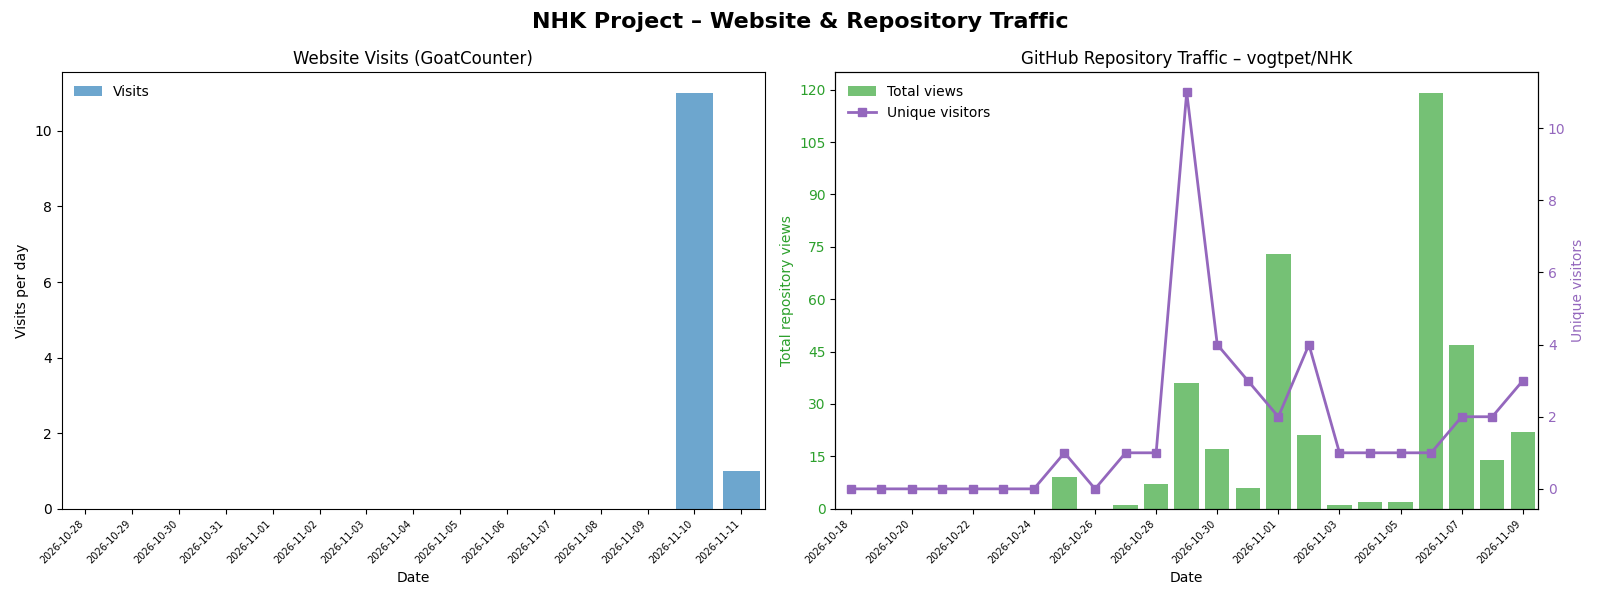
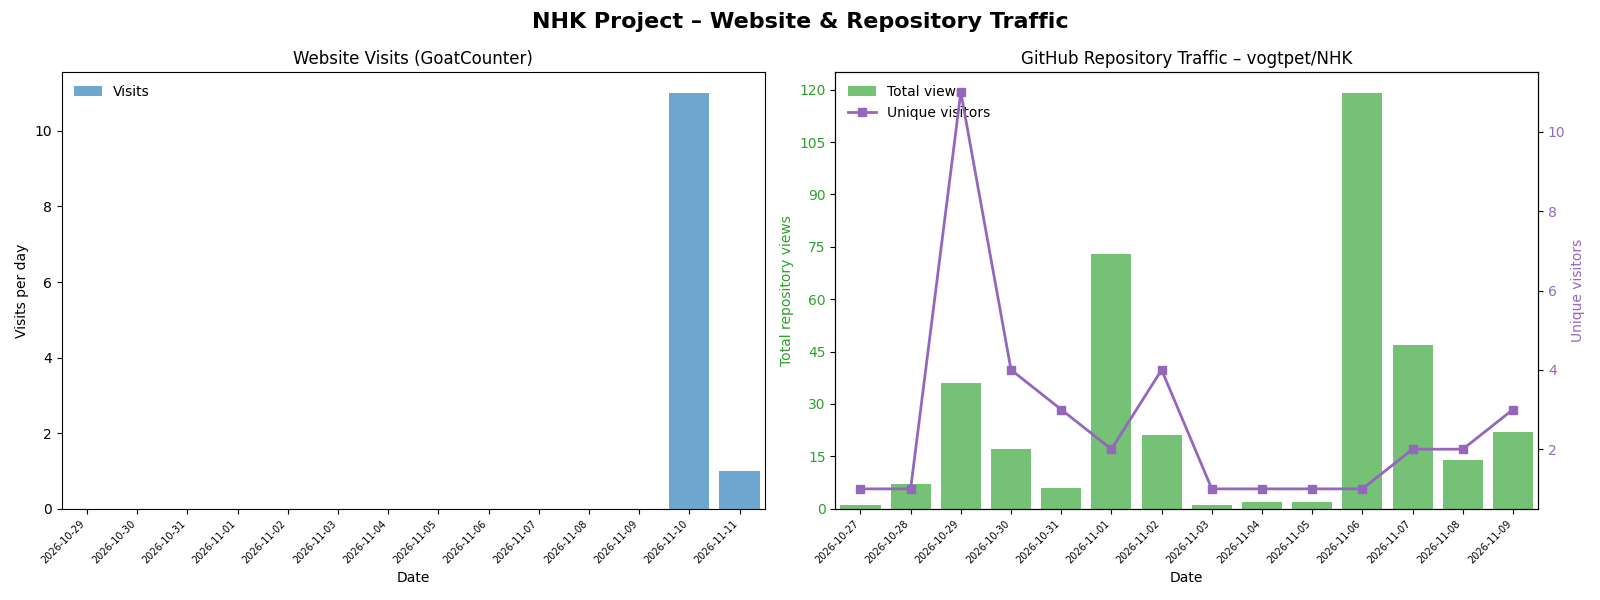
Keep both dashboard panels at a 14-day window
The repository log accumulates days because the fetch step merges each
export into the existing CSV. Read the last 14 rows in the chart only, so
both panels stay a readable sliding window while tools/traffic/history.csv
retains the full history for the monthly and yearly summary.

diff --git a/tools/plot_dashboard.py b/tools/plot_dashboard.py
@@ -11,6 +11,7 @@ ROOT = Path(__file__).resolve().parent.parent
 SITE_LOG = ROOT / "tools" / "traffic" / "site_views.csv"  # GoatCounter
 REPO_LOG = ROOT / "tools" / "traffic" / "views.csv"       # GitHub repository views
 OUTPUT_IMAGE = ROOT / "tools" / "unified_dashboard_analytics.png"
+WINDOW_DAYS = 14
 
 
 def load_data(path: Path):
@@ -23,6 +24,9 @@ def load_data(path: Path):
         df = df.dropna(subset=[date_col]).sort_values(date_col)
         if df.empty:
             return None
+        # The log files keep long-term history for the summary CSV; the chart
+        # stays a readable sliding window.
+        df = df.tail(WINDOW_DAYS)
         return df, date_col
     except Exception as exc:
         print(f"Warning: could not read {path}: {exc}")
